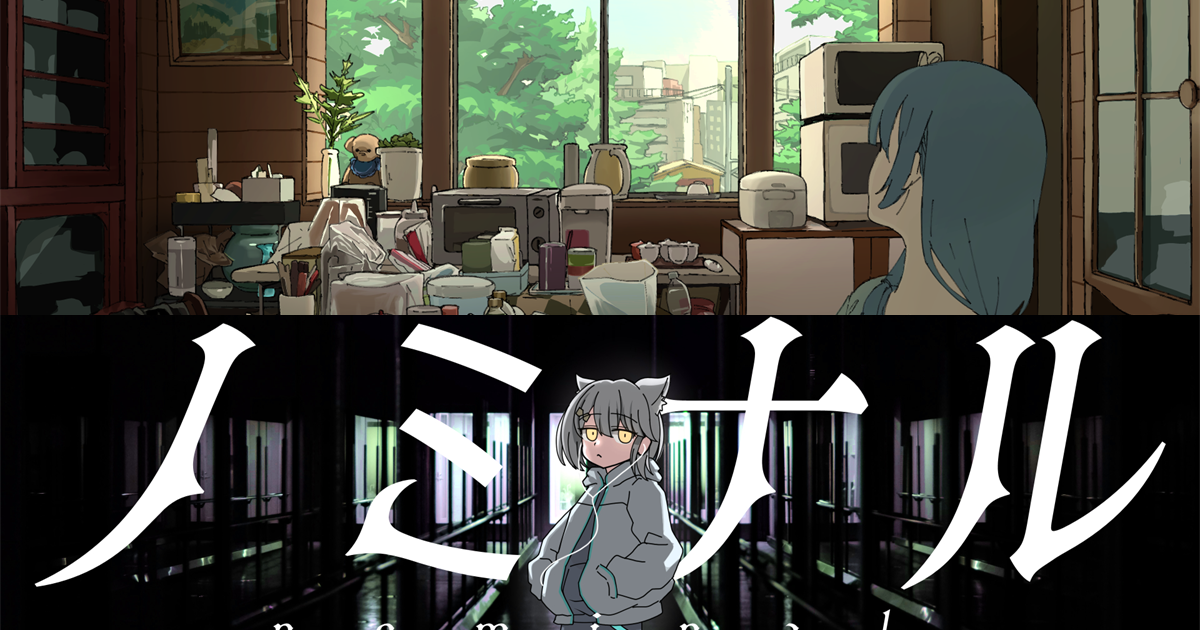
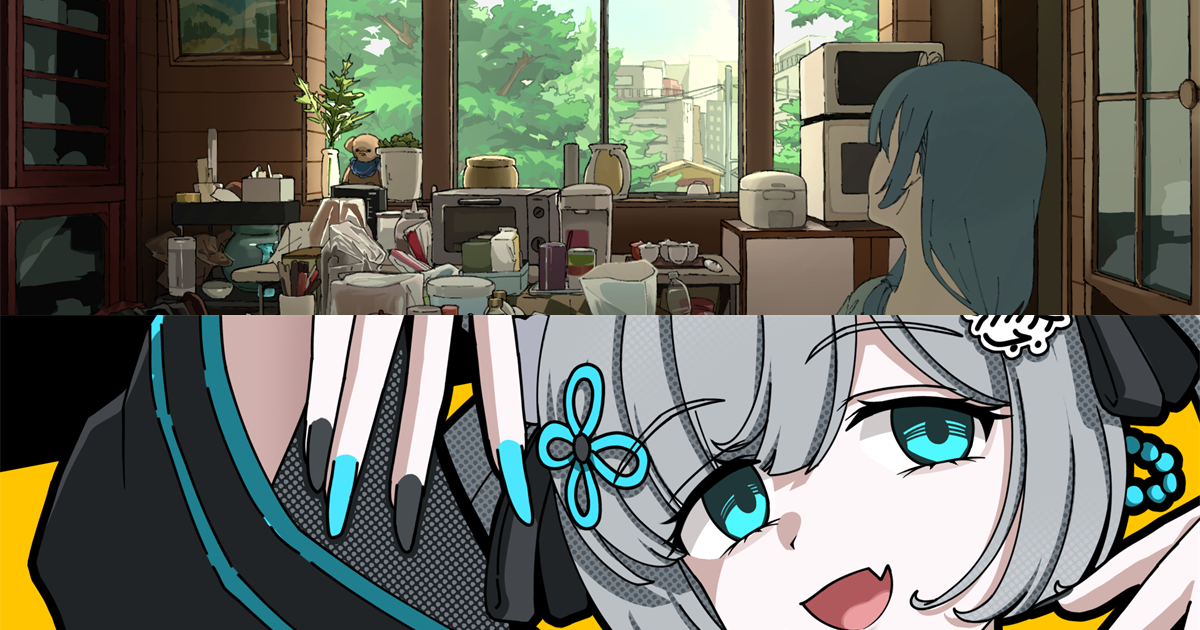
liaoliao_mingming

diff --git a/index.html b/index.html
@@ -10,14 +10,14 @@
   <meta property="og:title" content="Caffeina &amp; Peristeronica Official Site">
   <meta property="og:description" content="Caffeina &amp; Peristeronica, ボーカロイド楽曲制作を行う二人組。2022年からニコニコで活動。共作での楽曲, MV制作を行う。">
   <meta property="og:url" content="https://caffeina-peristeronica.com/">
-  <meta property="og:image" content="https://caffeina-peristeronica.com/assets/images/ogp.png">
+  <meta property="og:image" content="https://caffeina-peristeronica.com/assets/images/ogp.png?v=20260905-2">
   <meta property="og:image:width" content="1200">
   <meta property="og:image:height" content="630">
   <meta property="og:site_name" content="Caffeina &amp; Peristeronica">
   <meta name="twitter:card" content="summary_large_image">
   <meta name="twitter:title" content="Caffeina &amp; Peristeronica Official Site">
   <meta name="twitter:description" content="Caffeina &amp; Peristeronica, ボーカロイド楽曲制作を行う二人組。2022年からニコニコで活動。共作での楽曲, MV制作を行う。">
-  <meta name="twitter:image" content="https://caffeina-peristeronica.com/assets/images/ogp.png">
+  <meta name="twitter:image" content="https://caffeina-peristeronica.com/assets/images/ogp.png?v=20260905-2">
   <link rel="canonical" href="https://caffeina-peristeronica.com/">
   <link rel="icon" href="/favicon.ico" sizes="any">
   <link rel="icon" href="/favicon-48x48.png" type="image/png" sizes="48x48">
@@ -42,7 +42,7 @@
           "alternateName": ["Caffeina", "Peristeronica", "カフィーナ", "ペリステロニカ"],
           "url": "https://caffeina-peristeronica.com/",
           "logo": "https://caffeina-peristeronica.com/favicon-48x48.png",
-          "image": "https://caffeina-peristeronica.com/assets/images/ogp.png",
+          "image": "https://caffeina-peristeronica.com/assets/images/ogp.png?v=20260905-2",
           "sameAs": [
             "https://x.com/caffeina_mono",
             "https://www.youtube.com/@caffeina5430",
@@ -149,10 +149,10 @@
     <section class="home-hero" aria-label="Caffeina and Peristeronica latest works">
       <div class="latest-backdrop" aria-hidden="true">
         <figure class="latest-panel caf-panel">
-          <img src="/assets/images/works/Caffeina_LatestWork.webp" alt="">
+          <img src="/assets/images/works/Caffeina_LatestWork.webp" alt="" data-focus-y="0.5">
         </figure>
         <figure class="latest-panel per-panel">
-          <img src="/assets/images/works/Peristeronica_LatestWork.webp" alt="">
+          <img src="/assets/images/works/Peristeronica_RyoryoMeimei_thumb.webp" alt="" data-focus-y="0.2333333333">
         </figure>
       </div>
 
@@ -175,7 +175,7 @@
             <img src="/assets/images/Peristeronica_icon.webp" alt="Peristeronica icon">
           </a>
           <div class="artist-actions">
-            <a href="/peristeronica_works/?viewer=%E3%83%8E%E3%83%9F%E3%83%8A%E3%83%AB%20ft.LeuR">LATEST WORK</a>
+            <a href="/peristeronica_works/?viewer=%E3%83%AA%E3%83%A7%E3%82%A6%E3%83%AA%E3%83%A7%E3%82%A6-%E3%83%A1%E3%82%A4%E3%83%A1%E3%82%A4">LATEST WORK</a>
             <a href="/peristeronica_works/">WORKS</a>
             <a href="#per-profile">PROFILE</a>
           </div>

diff --git a/assets/js/index.js b/assets/js/index.js
@@ -12,6 +12,58 @@ let profileVideoStopTimer = 0;
 let profileViewerRenderToken = 0;
 const newsExternalWindowHandles = new Map();
 
+function updateLatestImageFocus(panel) {
+  const image = panel.querySelector("img[data-focus-y]");
+
+  if (!image?.naturalWidth || !image.naturalHeight || !panel.clientWidth || !panel.clientHeight) {
+    return;
+  }
+
+  const requestedFocusY = Number(image.dataset.focusY);
+  const focusY = Number.isFinite(requestedFocusY)
+    ? Math.min(1, Math.max(0, requestedFocusY))
+    : 0.5;
+  const scale = Math.max(panel.clientWidth / image.naturalWidth, panel.clientHeight / image.naturalHeight);
+  const renderedHeight = image.naturalHeight * scale;
+  const minimumOffset = Math.min(0, panel.clientHeight - renderedHeight);
+  const desiredOffset = (panel.clientHeight / 2) - (renderedHeight * focusY);
+  const offset = Math.min(0, Math.max(minimumOffset, desiredOffset));
+  const overflow = panel.clientHeight - renderedHeight;
+  const objectPositionY = Math.abs(overflow) < 0.5 ? 50 : (offset / overflow) * 100;
+  const visibleFocusY = offset + (renderedHeight * focusY);
+  const transformOriginY = Math.min(100, Math.max(0, (visibleFocusY / panel.clientHeight) * 100));
+
+  image.style.setProperty("--latest-focus-position-y", `${objectPositionY}%`);
+  image.style.setProperty("--latest-transform-origin-y", `${transformOriginY}%`);
+}
+
+function setupLatestImageFocus() {
+  const panels = [...document.querySelectorAll(".latest-panel")];
+
+  panels.forEach((panel) => {
+    const image = panel.querySelector("img[data-focus-y]");
+    const update = () => updateLatestImageFocus(panel);
+
+    if (image?.complete) {
+      update();
+    } else {
+      image?.addEventListener("load", update, { once: true });
+    }
+  });
+
+  if ("ResizeObserver" in window) {
+    const observer = new ResizeObserver((entries) => {
+      entries.forEach((entry) => updateLatestImageFocus(entry.target));
+    });
+    panels.forEach((panel) => observer.observe(panel));
+    return;
+  }
+
+  window.addEventListener("resize", () => {
+    panels.forEach(updateLatestImageFocus);
+  });
+}
+
 const profileTypeLabels = {
   Music: "Music",
   Album: "Album",
@@ -774,5 +826,6 @@ window.addEventListener("keydown", (event) => {
   void handleKeyTrail(event);
 });
 
+setupLatestImageFocus();
 renderNews();
 renderProfileWorks();

diff --git a/data/site-works.js b/data/site-works.js
@@ -210,6 +210,15 @@ window.siteWorks = {
         cover: "/assets/images/works/Peristeronica_Nominal_thumb.webp",
         url: "https://www.nicovideo.jp/watch/sm45983873",
       },
+      {
+        title: "リョウリョウ-メイメイ",
+        description: "初音ミク生誕祭2026",
+        role: "企画, 楽曲制作",
+        date: "2026-09-05",
+        type: "Music",
+        cover: "/assets/images/works/Peristeronica_RyoryoMeimei_thumb.webp",
+        url: "https://www.nicovideo.jp/watch/sm46761687",
+      },
     ],
     other: [
       {

diff --git a/assets/css/index.css b/assets/css/index.css
@@ -201,18 +201,10 @@ a {
   filter: saturate(0.95) contrast(1.06);
   height: 100%;
   object-fit: cover;
+  object-position: center var(--latest-focus-position-y, 50%);
+  transform-origin: center var(--latest-transform-origin-y, 50%);
   transition: transform 820ms cubic-bezier(0.22, 1, 0.36, 1), filter 720ms ease;
   width: 100%;
-}
-
-.caf-panel img {
-  object-position: center center;
-  transform-origin: center center;
-}
-
-.per-panel img {
-  object-position: center center;
-  transform-origin: center center;
 }
 
 .caf-panel {
